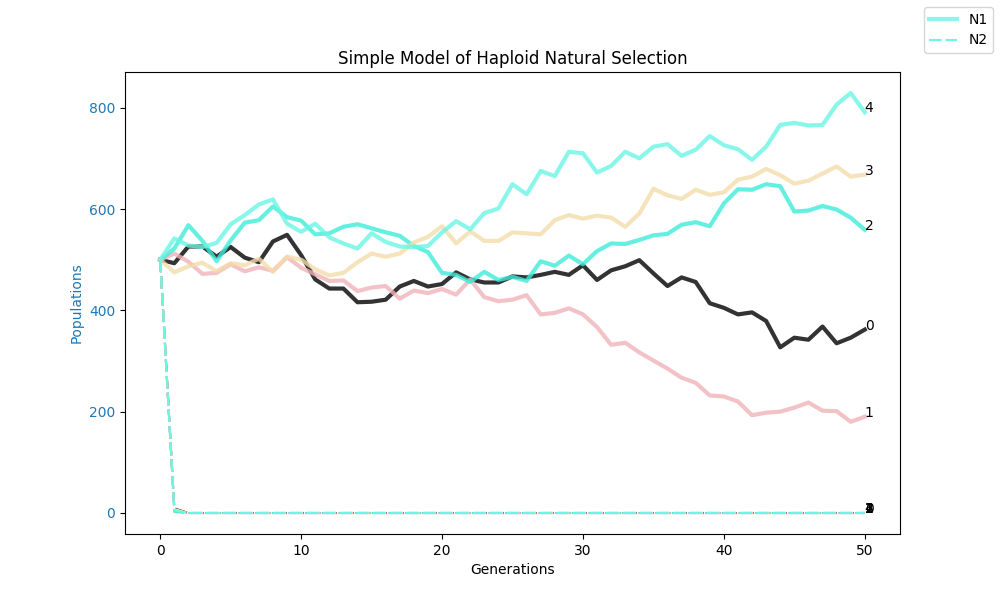
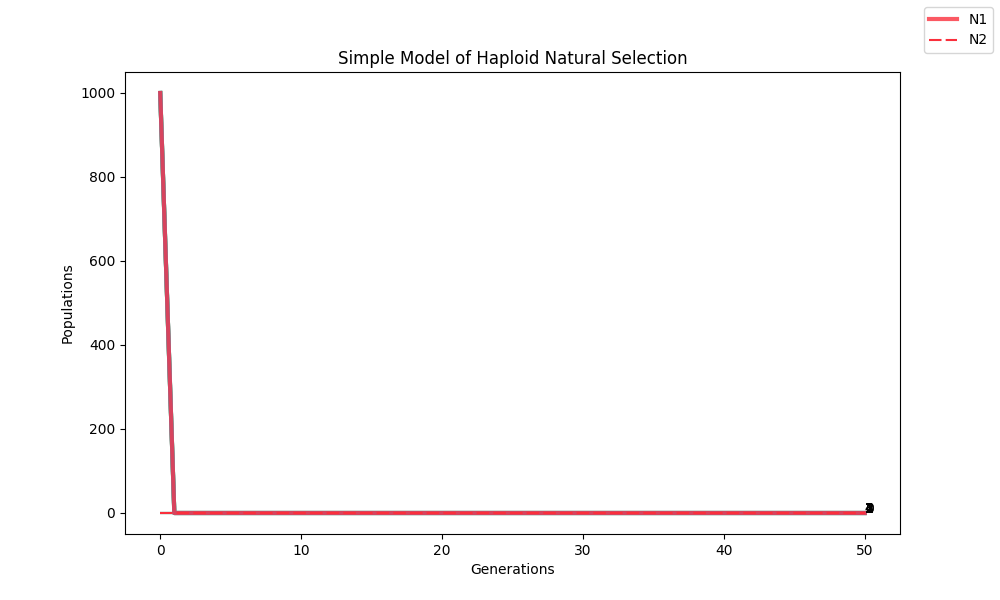
corrected typo in w2 value in select_haploid

diff --git a/natural-selection-haploid/select_haploid.py b/natural-selection-haploid/select_haploid.py
@@ -75,13 +75,12 @@ def simulate(initial_values, num_simulations=2):
   w2=initial_values["fitness2"]
   scriptdir = os.path.dirname(os.path.realpath(__file__))
 
-  output_file = scriptdir+"/"+output_file
-  
   result = []
   for sim in tqdm(range(num_simulations)):
     populations = select_haploid(N, f1, w1, w2, gens, None) # don't write yet
     result.append(populations)
   if output_file:
+    output_file = scriptdir+"/"+output_file
     with open(output_file, "w") as filehandle:
       for pops in result:
         filehandle.write('%s\n' % pops)  
@@ -94,13 +93,13 @@ if __name__ == "__main__":
   # Give parameters for simulation and saving data to file
   num_simulations = 5
 
-  output_file="data.txt"
+  output_file="data.txt" # if not saving, then make it None
   savefig_file="natural_selection_haploid.png"
   gens = 50
   N=1000
-  f1=0.5
-  w1=1.00
-  w2=0.01
+  f1=1.0
+  w1=0.0
+  w2=1.0
   initial_values = {
     "output_file" : output_file,
     "generations" : gens,
@@ -121,8 +120,6 @@ if __name__ == "__main__":
   fig1, ax1 = plt.subplots(figsize=[10,6])
   fig2, ax2 = plt.subplots(figsize=[10,6])
   #ax2 = ax1.twinx()  # instantiate a second axes that shares the same x-axis
-  prop_cycle = plt.rcParams['axes.prop_cycle']
-  colors = prop_cycle.by_key()['color']
 
   def get_cmap(n, name='hsv'):#from https://stackoverflow.com/questions/14720331/how-to-generate-random-colors-in-matplotlib
       '''Returns a function that maps each index in 0, 1, ..., n-1 to a distinct 
@@ -133,7 +130,7 @@ if __name__ == "__main__":
     # gather data to plot
     generations = range( len(populations) )
     population1 = [pf[0] for pf in populations]
-    freq1 = [pf[0]/(pf[0]+pf[1]) for pf in populations]
+    freq1 = [pf[0]/(pf[0]+pf[1]) if (pf[0]+pf[1]) !=0 else 0 for pf in populations]
     population2 = [pf[1] for pf in populations]
     # Plot N1 and f1 - share x-axis, which is generations
     
@@ -149,15 +146,17 @@ if __name__ == "__main__":
     line3, = ax2.plot(generations, freq1, color=color, label="f1")
 
     #fig1.tight_layout()  # otherwise the right y-label is slightly clipped
-    fig2.tight_layout()  # otherwise the right y-label is slightly clipped
+    #fig2.tight_layout()  # otherwise the right y-label is slightly clipped
   
   ax1.set_title("Simple Model of Haploid Natural Selection")
   ax1.set_xlabel('Generations')
-  ax1.set_ylabel('Populations', color=color)
-  ax1.tick_params(axis='y', labelcolor=color) 
+  ax1.set_ylabel('Populations', color='k')
+  ax1.tick_params(axis='y', labelcolor='k') 
 
-  ax2.set_ylabel('Frequency of Allele 1', color=color)  
-  ax2.tick_params(axis='y', labelcolor=color)
+  ax2.set_title("Frequency of Allele 1 Versus Generations")
+  ax2.set_xlabel('Generations')
+  ax2.set_ylabel('Frequency of Allele 1', color='k')  
+  ax2.tick_params(axis='y', labelcolor='k')
 
   fig1.legend((line1, line2), ("N1", "N2"))
   fig1.savefig(scriptdir+"/"+savefig_file)
